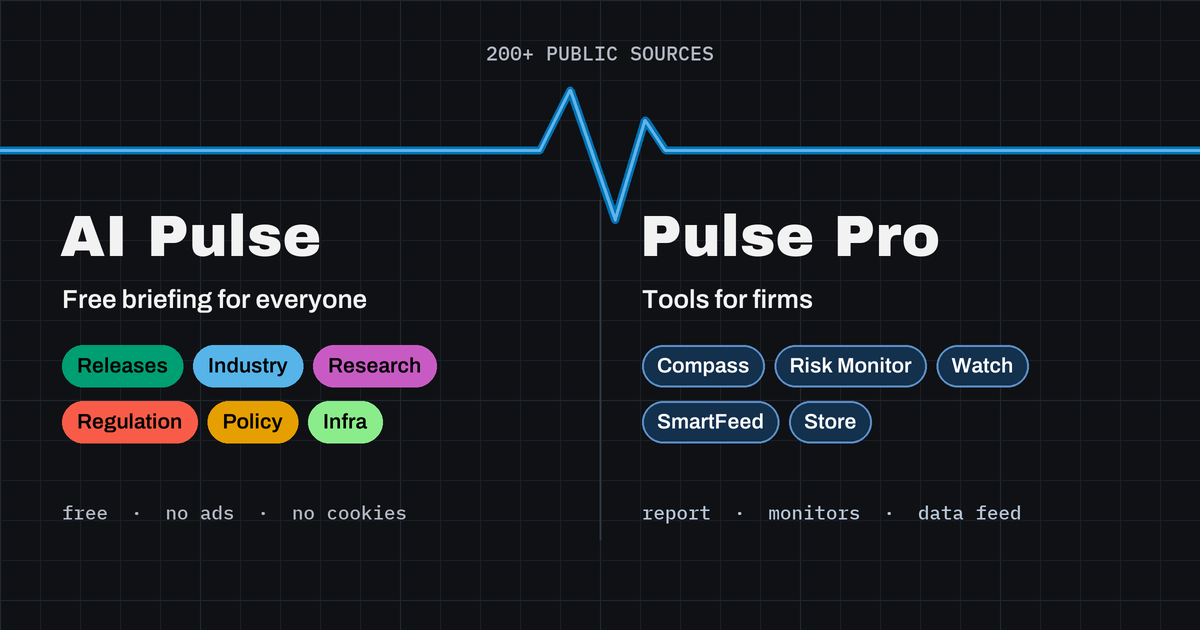
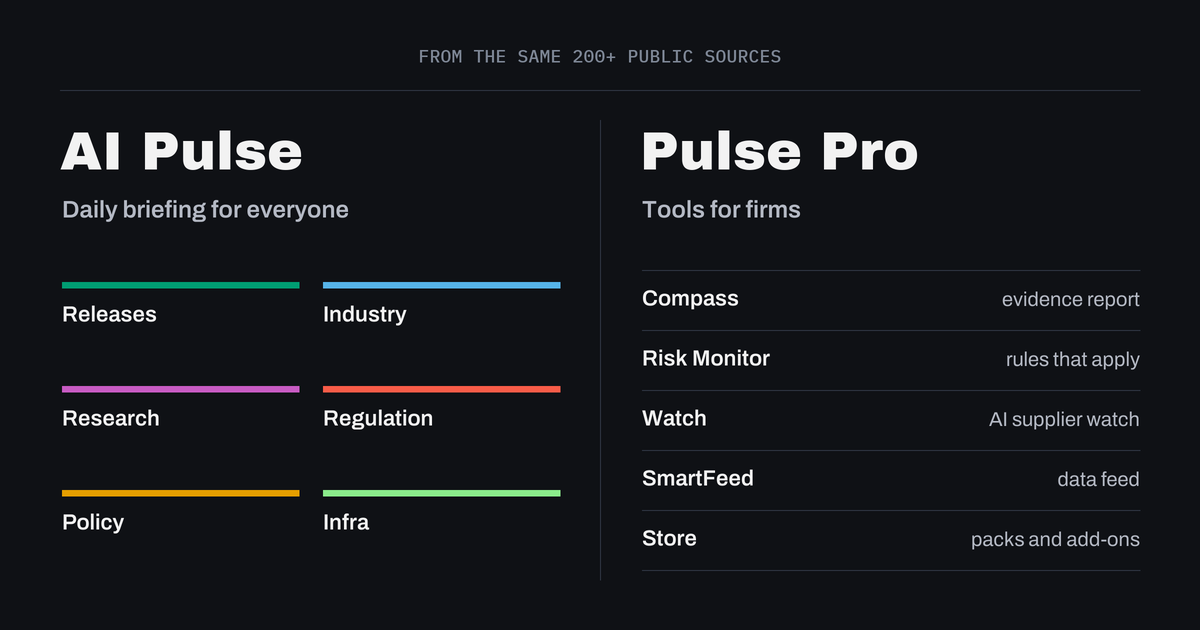
Drop 'free' and 'non-commercial' wording readers see; simpler About picture
Site: preview description, subscribe box, Subscribe button, About tick.
Ask and dossier footers and email footers now carry the tagline instead.
About picture: two plain columns, AI Pulse sections and Pulse Pro products,
from the same 200+ sources; no pulse lines.

diff --git a/templates/index.html b/templates/index.html
@@ -10,7 +10,7 @@
 <meta property="og:type" content="website">
 <meta property="og:site_name" content="AI Pulse">
 <meta property="og:title" content="AI Pulse · Daily AI news, laws and research from around the world">
-<meta property="og:description" content="A free daily briefing on AI worldwide: releases, industry, research, policy and an AI law tracker from 200+ public sources. No ads, no cookies.">
+<meta property="og:description" content="A daily briefing on AI worldwide: releases, industry, research, policy and an AI law tracker from 200+ public sources. No ads, no cookies.">
 <meta property="og:url" content="https://projectaipulse.com/">
 <meta property="og:image" content="https://projectaipulse.com/og.png">
 <meta property="og:image:width" content="1200">
@@ -1147,7 +1147,7 @@ header.top .menu-btn:hover{background:color-mix(in srgb,var(--ink) 8%,var(--bg))
     <form class="sub-form" id="sub-form" novalidate>
       <h2 id="subscribe-title">Get the daily digest in your inbox</h2>
       <p class="sub-lede">Every morning, the day before in AI in one email: every story tagged with what it is, a line of
-        summary and a link to the original. Free, no ads, no tracking.<br><a href="privacy.html">Privacy</a></p>
+        summary and a link to the original. No ads, no tracking.<br><a href="privacy.html">Privacy</a></p>
       <label class="sub-label" for="sub-email">Your email</label>
       <input class="sub-email" id="sub-email" type="email" autocomplete="email" placeholder="you@example.com" required>
       <input class="sub-trap" name="website" id="sub-website" tabindex="-1" autocomplete="off" aria-hidden="true">
@@ -1218,7 +1218,7 @@ header.top .menu-btn:hover{background:color-mix(in srgb,var(--ink) 8%,var(--bg))
           <li><b>Your words</b>Up to 5 of your own, like “Kerala”</li>
         </ol>
         <p class="sub-hint">Steps 2–4 are optional: find them under <b>“+ Make it yours”</b> in the sign-up form.</p>
-        <div class="sub-act"><button class="sub-tile-go" type="button" data-open="subscribe">Subscribe free →</button>
+        <div class="sub-act"><button class="sub-tile-go" type="button" data-open="subscribe">Subscribe →</button>
           <small>One email a day · unsubscribe in one click</small>
           <a class="sub-yesterday" href="daily/sample.html" target="_blank" rel="noopener">See what the email looks like →</a></div>
       </div>
@@ -1272,11 +1272,11 @@ header.top .menu-btn:hover{background:color-mix(in srgb,var(--ink) 8%,var(--bg))
   <section class="about-page" id="about-page" hidden>
     <!-- two sections: the picture, then what AI Pulse is, a ticked point each (stacked on phones) -->
     <div class="about-split">
-      <div class="about-pic"><img class="about-art" src="about.png" alt="From 200+ public sources: AI Pulse, the free briefing for everyone (Releases, Industry, Research, Regulation, Policy, Infra), and Pulse Pro, tools for firms (Compass, Risk Monitor, Watch, SmartFeed, Store)" width="1200" height="630"></div>
+      <div class="about-pic"><img class="about-art" src="about.png" alt="From the same 200+ public sources: AI Pulse, the daily briefing for everyone (Releases, Industry, Research, Regulation, Policy, Infra), and Pulse Pro, tools for firms (Compass, Risk Monitor, Watch, SmartFeed, Store)" width="1200" height="630"></div>
       <div class="about-detail">
         <p class="about-intro">Stay informed on worldwide developments across artificial intelligence technology, regulation and infrastructure.</p>
         <ul class="about-ticks">
-          <li>The briefing is free: no ads, no cookies</li>
+          <li>No ads, no cookies</li>
           <li>From 200+ public sources: AI labs, newsrooms, research, parliaments and regulators</li>
           <li>Only sites that allow automated reading are used</li>
           <li>Each publisher’s own headline and summary, linked to the original</li>

diff --git a/templates/dossier.html b/templates/dossier.html
@@ -38,7 +38,7 @@
     <div class="span" id="span">Your interests</div></div>
   <div class="inner">
     <div id="dossier"><p class="note">Loading your dossier…</p></div>
-    <p class="foot">Picked by search over AI Pulse's stories, by meaning, by words and by the site's tags.<br>AI Pulse is free and non-commercial ·
+    <p class="foot">Picked by search over AI Pulse's stories, by meaning, by words and by the site's tags.<br>AI Pulse · Your briefing on what's happening in AI worldwide ·
       <a href="./">projectaipulse.com</a></p>
   </div>
 </main>

diff --git a/templates/ask.html b/templates/ask.html
@@ -89,7 +89,7 @@
   </div>
   <div class="dossier" id="dossier"></div>
   <div class="inner"><p class="foot">Picked by search over AI Pulse's stories, by meaning, by words and by the site's
-    tags; every line is the publisher's own. AI Pulse is free and non-commercial · <a href="./">projectaipulse.com</a></p></div>
+    tags; every line is the publisher's own. AI Pulse · Your briefing on what's happening in AI worldwide · <a href="./">projectaipulse.com</a></p></div>
 </main>
 <script>
 const SIGNUP_URL = "__SIGNUP_URL__", MAX = 3;

diff --git a/aipulse/digest.py b/aipulse/digest.py
@@ -1021,16 +1021,16 @@ def build(cards: list[dict], streams: list[str], day: date, unsubscribe: str = "
         table_text, table_html = _ledger(by_stream, streams, day)
     feeds = [(rss.FEEDS[n][1], f"{rss.SITE}feeds/{n}.xml") for n in streams]
     # a reader's email asks them to pass it on; the friend signs up on the site
-    forward = f"Know someone who'd like this? Forward this email; they can sign up free at {rss.SITE}#subscribe"
+    forward = f"Know someone who'd like this? Forward this email; they can sign up at {rss.SITE}#subscribe"
     settings = (["Get AI Pulse daily in your inbox: " + change] if web else
                 [forward, f"You chose: {chose}.", "RSS: " + " · ".join(f"{name} {url}" for name, url in feeds),
                  f"{change_words}: {change}", f"Unsubscribe: {stop}"])
     review_text, review_html = _review_box() if layout == "short" and not web else ([], "")
     text = [*open_text, *table_text, *(["", *review_text] if review_text else []), "", *settings,
-            f"AI Pulse is free and non-commercial: {rss.SITE}"]
+            f"AI Pulse, your briefing on what's happening in AI worldwide: {rss.SITE}"]
     settings_html = (f'<a href="{escape(change)}" style="color:{GREY}">Get AI Pulse daily in your inbox</a><br>' if web else
                      f'<span style="color:{INK}">Know someone who&#39;d like this? Forward this email; they can '
-                     f'<a href="{rss.SITE}#subscribe" style="color:{LINK}">sign up free</a>.</span><br>'
+                     f'<a href="{rss.SITE}#subscribe" style="color:{LINK}">sign up</a>.</span><br>'
                      f'You chose: {escape(chose)}.<br>RSS: '
                      + " · ".join(f'<a href="{escape(url)}" style="color:{GREY}">{escape(name)}</a>' for name, url in feeds)
                      + f'<br><a href="{escape(change)}" style="color:{GREY}">{change_words}</a> · '
@@ -1045,7 +1045,7 @@ def build(cards: list[dict], streams: list[str], day: date, unsubscribe: str = "
             + open_html + table_html + review_html
             + f'<p style="margin-top:28px;padding-top:12px;border-top:1px solid #e3e5e8;color:{GREY};font-size:13px;'
               f'line-height:1.6">' + settings_html
-            + f'AI Pulse is free and non-commercial · <a href="{rss.SITE}" style="color:{GREY}">{rss.SITE}</a></p>'
+            + f'AI Pulse, your briefing on what&#39;s happening in AI worldwide · <a href="{rss.SITE}" style="color:{GREY}">{rss.SITE}</a></p>'
               '</td></tr></table></td></tr></table></body></html>')
     return subject, "\n".join(text), html
 

diff --git a/aipulse/poster.py b/aipulse/poster.py
@@ -711,14 +711,14 @@ def build(cards: list[dict], by_stream: dict[str, list[dict]], left: list[dict],
 
     # The footer: pass it on, the reader's streams, their links
     chose = ", ".join(rss.FEEDS[n][1] for n in streams)
-    text += ["", f"Know someone who'd like this? Forward this email; they can sign up free at {rss.SITE}#subscribe",
+    text += ["", f"Know someone who'd like this? Forward this email; they can sign up at {rss.SITE}#subscribe",
              f"You chose: {chose}.", f"Change my streams and choices: {change}", f"Unsubscribe: {stop}",
-             f"AI Pulse is free and non-commercial: {rss.SITE}"]
+             f"AI Pulse, your briefing on what's happening in AI worldwide: {rss.SITE}"]
     html.append(f'<tr><td style="border-top:3px solid {INK};padding:14px 20px 18px;font-size:12px;line-height:1.7;color:{GREY}">'
                 f'Know someone who&#39;d like this? Forward it; they can <a href="{rss.SITE}#subscribe" style="color:{INK};'
-                f'font-weight:bold">sign up free</a>.<br>You chose: {escape(chose)}.<br><a href="{escape(change)}" '
+                f'font-weight:bold">sign up</a>.<br>You chose: {escape(chose)}.<br><a href="{escape(change)}" '
                 f'style="color:{GREY}">Change my streams and choices</a> · <a href="{escape(stop)}" style="color:{GREY}">'
-                f'Unsubscribe</a><br>AI Pulse is free and non-commercial · <a href="{rss.SITE}" style="color:{GREY}">{rss.SITE}</a>'
+                f'Unsubscribe</a><br>AI Pulse, your briefing on what&#39;s happening in AI worldwide · <a href="{rss.SITE}" style="color:{GREY}">{rss.SITE}</a>'
                 f'</td></tr>')
 
     # "Daily Digest: " (Sunday: "Weekly Digest: " and the story of the week), then the lead in a few of its own words
